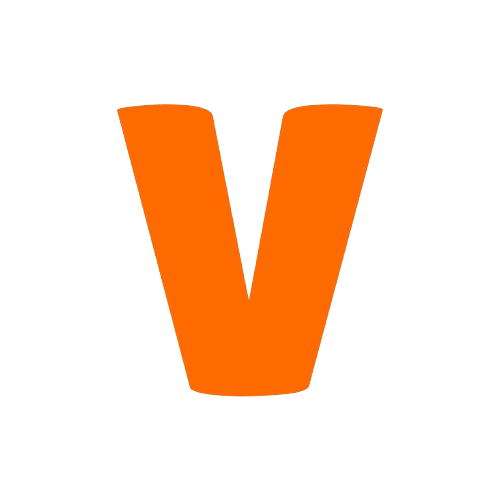
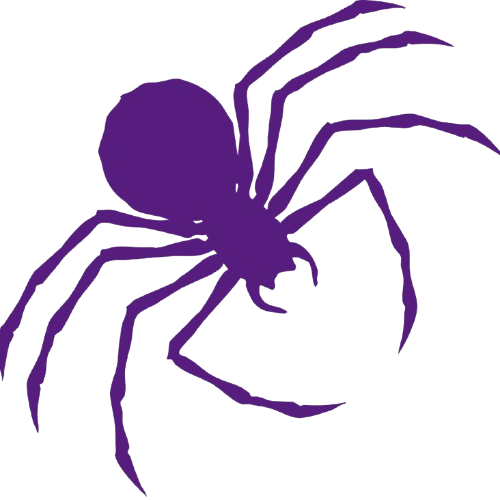
Fixed node article

diff --git a/src/data/blog/posts/nexora/nexora-node-storage.md b/src/data/blog/posts/nexora/nexora-node-storage.md
@@ -1,0 +1,269 @@
+---
+title: "Building a Graph Database - Node Storage"
+author: "Suhan Bangera"
+pubDatetime: 2026-05-21T11:00:00Z
+description: "A deep dive into how Nexora stores, looks up, inserts, and deletes nodes. Fixed-size records, identity-bound slots, O(1) direct addressing via the page index, and why deleted nodes leave permanent holes."
+featured: true
+isSeries: true
+series: "Nexora"
+chapter: 3
+tags:
+  - database
+  - graph-database
+  - rust
+  - deep-dive
+  - nexora
+---
+
+In [part 2](/posts/posts/nexora/nexora-file-format/) we mapped the full file format — every page type, the footer manifest, the PackedPtr encoding. This post zooms into one layer: **node storage**. How a node is laid out on disk, how it gets there, how it is found, and what happens when it is deleted.
+
+---
+
+## What is a Node?
+In a graph, *nodes* are one of its two primitives (the other being *edges*). A node represents an entity, like a **Person**, a **Movie**, a **City**, etc. Edges represent relationships between entities.
+
+### What does a Node contain?
+For a directed graph, a typical node should contain the following information:
+- *A Label*: An identifier describing what kind of thing it is — for example: a **Person**, a **Movie**, a **City**, etc.
+- *Incoming Edges*: These are the edges directed towards the node.
+- *Outgoing Edges*: These are the edges going away from the node.
+- *Node Properties*: A collection of key-value pairs that give more information about a node. For example: for a node **Person**, properties could be **Name=Jon Doe**, **Age=69**, etc.
+
+---
+
+## The Node Page
+Node records are packed into **4 KB pages**.
+
+```
+4 KB Node Page
+┌──────────────────────────────────┐  ← byte 0
+│         NexoraPageHeader         │    32 bytes
+│   page_id · next · prev · crc   │
+├──────────────────────────────────┤  ← byte 32
+│        Node Page Header          │     2 bytes
+│           record_count           │
+├──────────────────────────────────┤  ← byte 34
+│           Record  0              │    40 bytes
+├──────────────────────────────────┤  ← byte 74
+│           Record  1              │
+├──────────────────────────────────┤
+│              ...                 │
+├──────────────────────────────────┤
+│           Record 100             │
+└──────────────────────────────────┘  ← byte 4096
+```
+
+### Nexora Page Header
+
+Every page in Nexora, regardless of type, begins with the same 32-byte `NexoraPageHeader`:
+
+| Offset | Size | Field |
+|-------:|-----:|-------|
+| 0 | 8 | `page_id` (u64, LE) — this page's own ID |
+| 8 | 8 | `next_page_id` (u64, LE) — next page in the chain, `0xFFFF…` if none |
+| 16 | 8 | `prev_page_id` (u64, LE) — previous page in the chain, `0xFFFF…` if none |
+| 24 | 4 | `checksum` (CRC32, LE) — over the page body; verified on every read |
+| 28 | 1 | `page_type` — identifies the page kind (2 = Node) |
+| 29 | 3 | padding |
+
+`next_page_id` and `prev_page_id` chain all node pages into a doubly-linked list. The footer holds `first_node_page` and `last_node_page` as entry points into the chain. `checksum` is stamped on every write and verified on every read — silent corruption is caught at the page boundary, not discovered three queries later.
+
+### The Node Page Header
+
+Immediately after the `NexoraPageHeader` comes the 4-byte **node page header**:
+
+| Offset | Size | Field |
+|-------:|-----:|-------|
+| 0 | 1 | `record_count` — number of records written so far |
+| 1 | 1 | padding |
+
+`record_count` is the append pointer. New records always go at slot `record_count`; after the insert it is incremented. It is never decremented — deletion does not touch it.
+
+The capacity of a Node Page: `(4096 − 32 NexoraPageHeader − 2 node_page_header) / 40 = 101 records per page`.
+
+### The Node Record
+
+Every node is a fixed-size **40-byte record** packed into the data area of the node page:
+
+| Offset | Size | Field |
+|-------:|-----:|-------|
+| 0 | 8 | `node_id` (u64 — unsigned 64-bit integer / 8 bytes, LE) |
+| 8 | 8 | `first_out_edge` (PackedPtr) |
+| 16 | 8 | `first_in_edge` (PackedPtr) |
+| 24 | 8 | `properties` (PackedPtr) |
+| 32 | 4 | `label_id` (u32 — unsigned 32-bit integer / 4 bytes, LE) |
+| 36 | 1 | `flags` (0 = active, 1 = deleted) |
+| 37 | 3 | padding |
+
+`first_out_edge` and `first_in_edge` are the heads of the node's adjacency lists. Each is a [`PackedPtr`](/posts/posts/nexora/nexora-file-format#a-note-on-packedptr) — a `u64` encoding a page ID and a slot index — pointing to the first outgoing and first incoming edge respectively. Following these pointers is how graph traversal works.
+
+`properties` is a `PackedPtr` to the first property record for this node, or `NULL` if the node has no properties.
+
+`label_id` is a 4-byte integer referencing a deduplicated label string in the label store. All nodes labelled `"Person"` share the same `label_id` — comparing labels is a 32-bit integer comparison, not a string comparison.
+
+`flags` is a single byte: `0` for active, `1` for deleted. Deletion is always logical — the flag is flipped, the record stays on disk.
+
+---
+
+## Inserting a Node
+
+When you call `insert_node("Person")`, the engine:
+
+1. Reads `next_node_id` from the footer — that becomes the new node's ID.
+2. Checks if `node_id % 101 == 0`. If yes, the current page is full (or this is the very first insert). A new page is allocated.
+3. Otherwise, reads the last node page, appends the record at slot `record_count`, writes the page back.
+4. Increments `node_count` and `next_node_id` in the footer and marks it dirty.
+5. The dirty pages are written into the file, when the database is closed.
+
+When a new page is allocated:
+
+- The previous last page's `next_page_id` is updated to link to the new one.
+- The new page is registered in the **page index** at position `node_id / 101`.
+- The footer's `last_node_page` is updated.
+
+The page boundary check is elegant: because node IDs are sequential and each page holds exactly 101 nodes, `node_id % 101 == 0` fires precisely when a new page is needed — no separate counter required.
+
+```
+node_id 0    → new page (slot 0)
+node_id 1    → append  (slot 1)
+...
+node_id 100  → append  (slot 100)
+node_id 101  → new page (slot 0)
+node_id 102  → append  (slot 1)
+...
+```
+
+---
+
+## Looking Up a Node
+
+Given a `node_id`, the lookup is arithmetic and two page reads:
+
+```
+page_id    = node_id / 101          →  which node page
+physical_page = page_index[page_id] →  disk address (from page index)
+slot          = node_id % 101          →  position within that page
+
+read physical_page → records[slot]
+```
+
+```
+node_id = 153
+    │
+    ├─ 153 / 101 = 1  ──►  Page Index
+    │                       ┌──────┬───────────┐
+    │                       │  0   │  page_id 2 │
+    │                       │  1   │  page_id 5 │ ◄── entry 1
+    │                       │  2   │  page_id 8 │
+    │                       └──────┴───────────┘
+    │                                  │
+    │                                  ▼  read physical page 5
+    │                       ┌──────────────────┐
+    └─ 153 % 101 = 52  ──►  │    slot 52       │ ◄── the record
+                            └──────────────────┘
+```
+
+The page index lookup may involve a short chain walk for very large databases (>507 node pages, ~51,200 nodes), but for most databases the entire index fits on a single page — one extra read before the node page read.
+
+Total cost for any lookup: **one page index read + one node page read**, regardless of how many nodes exist.
+
+---
+
+## Deleting a Node
+
+Deletion flips `flags` to `1` and writes the page back. That is all.
+
+The slot is **permanently vacated**. Because a node's slot is determined by its ID (`node_id % 101`), no future node can occupy that position — new nodes always get the next sequential ID and are appended at `record_count`. The hole stays until the containing page can be freed entirely, which requires all 101 slots on the page to be deleted.
+
+```
+Page 0  (node_ids 0 – 100)
+┌──────┬──────┬──────┬──────┬──────┬──────┐
+│  0   │  1   │  ✗   │  3   │  ✗   │  …  │  slots 2, 4 deleted — permanent holes
+└──────┴──────┴──────┴──────┴──────┴──────┘
+
+Page 1  (node_ids 101 – 201) — all 101 slots deleted
+┌──────┬──────┬──────┬──────┬──────┬──────┐
+│  ✗   │  ✗   │  ✗   │  ✗   │  ✗   │  ✗  │  entire page can now be reclaimed
+└──────┴──────┴──────┴──────┴──────┴──────┘
+```
+
+### The Trade-off: Space vs O(1) Access
+
+This is a deliberate design choice, not an oversight.
+
+The O(1) lookup formula — `page = node_id / 101`, `slot = node_id % 101` — only works because a node's position is permanently fixed by its ID. If a deleted slot could be reused by a future node with a different ID, the mapping breaks. You would need an extra level of indirection: a slot map, a free list, or some other structure that says "node 47 is now in slot 3 of page 6." That indirection costs a read and introduces fragmentation of the address space itself.
+
+The trade-off: **no fragmentation of the lookup path, at the cost of fragmentation on disk**. A page with 50 deleted nodes still occupies 4 KB. Until every one of its 101 slots is deleted, the page cannot be reclaimed.
+
+#### Why Not a Bitmask?
+
+The initial design used a 64-bit occupancy bitmask in the page header — exactly what the edge store does. An edge page carries an `occupied: u64` bitmask where each bit corresponds to a slot. When an edge is deleted, its bit is cleared. The next insertion scans the bitmask for the first free bit (`trailing_zeros`) and reuses that slot. This is fast and space-efficient.
+
+For nodes, we moved away from this. A bitmask-based allocator severs the identity–location binding: a node's slot becomes an implementation detail rather than something derivable from its ID. Every lookup requires going through the bitmask or an indirection table. <a href="https://neo4j.com" target="_blank">Neo4J</a> takes the same approach Nexora settled on for nodes — IDs are durable and location is fixed. The result is a simpler, branchless lookup path that scales to any database size without additional bookkeeping.
+
+Edge slot reuse is covered in the next post, including why the bitmask is the right call for edges (edges are created and destroyed far more frequently than nodes, so the space savings justify the added complexity).
+
+---
+
+## Scanning All Nodes
+
+Full scans use a cursor:
+
+```rust
+let mut cursor = store.scan_cursor()?;
+while let Some(node) = store.cursor_next_node(&mut cursor)? {
+    // process node
+}
+```
+
+```
+footer.first_node_page
+        │
+        ▼
+┌─────────────┐  next_page_id  ┌─────────────┐  next_page_id  ┌─ ─ ─ ─
+│   Page 2    │───────────────►│   Page 5    │───────────────►│   …
+│  [0] active │ ← yield        │  [0] active │ ← yield
+│  [1] deleted│   skip ──►     │  [1] active │ ← yield
+│  [2] active │ ← yield        │  [2] deleted│   skip ──►
+│     …       │                │     …       │
+└─────────────┘                └─────────────┘
+ ▲
+ cursor  { page: 2, slot: 0 }
+```
+
+The cursor holds a `PackedPtr` to the next position to read. It walks the page chain linearly, skipping records where `flags == DELETED`. When all records on a page are processed, the cursor advances to the first slot of the next page via `next_page_id`.
+
+The scan walks the physical page chain directly from `first_node_page` in the footer — the page index is not involved.
+
+### What is a Cursor?
+
+A cursor is a lightweight bookmark into the data — it remembers *where you are* in a scan so the engine can pause and resume without holding the entire dataset in memory.
+
+Nexora's cursor is borrowed from <a href="https://sqlite.org" target="_blank">SQLite</a>'s B-tree cursor model. In SQLite, a cursor points to a position within a B-tree page; you advance it one row at a time, and the cursor tracks both the page and the cell offset. Nexora adapts the same idea for a flat page chain: the cursor is just a `PackedPtr` — a page ID and a slot — and advancing it means either incrementing the slot or following `next_page_id` to the next page.
+
+This is useful for several reasons:
+
+- **No materialisation** — you never load all nodes at once. Each `cursor_next_node` call reads one record. For a database with millions of nodes, the memory cost of a full scan is constant.
+- **Composability** — the caller controls the loop. You can stop early, filter as you go, or feed results into a pipeline without buffering.
+- **Stateless between calls** — the cursor is just a value. It can be stored, cloned, or passed across function boundaries without the scan "knowing" it was interrupted.
+
+---
+
+## The Same-Page Optimisation
+
+When an edge is inserted between two nodes, both nodes need their adjacency list head pointer updated — `first_out_edge` on the source and `first_in_edge` on the destination. If both nodes live on the same page (their IDs fall in the same block of 101), Nexora reads the page once, updates both records, and writes it back once:
+
+```
+src_id = 5,  dst_id = 7   →  both on page 0  →  1 read + 1 write
+src_id = 5,  dst_id = 110 →  different pages  →  2 reads + 2 writes
+```
+
+This is a concrete benefit of packing multiple records per page. Dense graphs where edges connect nearby nodes get this for free.
+
+---
+
+## What's Next
+
+The next post will cover **edge storage** — how the adjacency lists are built and maintained on disk, the occupancy bitmask slot allocator, and what it takes to delete an edge while keeping both the outgoing and incoming chains consistent.
+
+*Nexora is open source — check it out on <a href="https://github.com/spyder01/nexora" target="_blank">GitHub</a>.*
